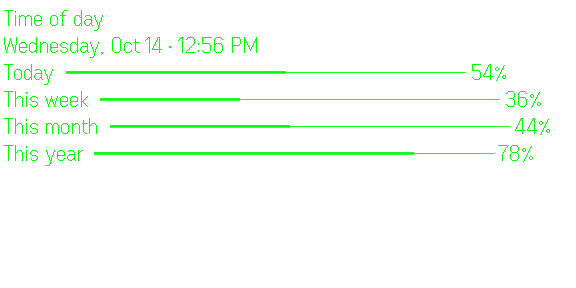
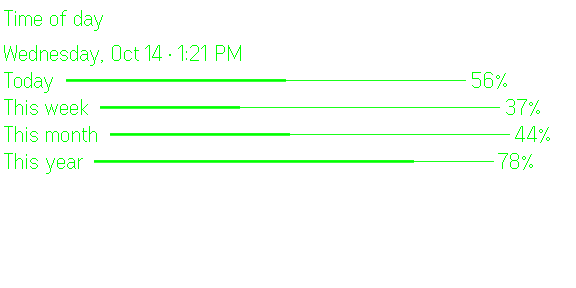
Smooth scrolling, clearer import panel, tolerant startup; 0.1.3
- Output scrolls smoothly: a fixed header line, and the output in a text
  box the glasses scroll themselves (no redraw per swipe; the old way
  rebuilt the whole screen 6 lines further on each swipe). A box holds
  about 1000 characters (the simulator refused a 1390-character update),
  so longer output is split into parts: the next part opens at the end of
  one (if the glasses report it) or from the menu (Next part / Previous
  part). Simulator: "part 1 of 4", firmware scroll with a scrollbar, menu
  switches parts, a short output answers a swipe with "end".
- Import from computer opens a titled, bordered panel with Close, scrolled
  into view; a script shows "Imported ✓" (the list used to look like the
  script list).
- store.load: a slow storage call no longer stops startup (no blank
  glasses).
- Store screenshots re-captured for the new output screen.

diff --git a/glasses/src/glasses.ts b/glasses/src/glasses.ts
@@ -1,8 +1,9 @@
 // What the glasses show, and what each gesture does there.
 //   Script list (root):  swipe = move (firmware), tap = run, double-tap = Even's exit dialog
-//   Output:              swipe = scroll, tap = run again, double-tap = back to the list (and stop it if still running)
+//   Output:              swipe = scroll (the glasses scroll the text themselves), tap = run again,
+//                        double-tap = back to the list (and stop it if still running)
 //   Choice (Alert/UITable): tap = pick, double-tap = cancel
-//   System menu (tap then hold): "All scripts" + favourite scripts
+//   System menu (tap then hold): "All scripts", "Next part"/"Previous part" for long output, favourite scripts
 import {
   CreateStartUpPageContainer, ListContainerProperty, ListItemContainerProperty, MenuContainerProperty, MenuItemProperty,
   OsEventTypeList, RebuildPageContainer, TextContainerProperty, TextContainerUpgrade, type EvenHubEvent,
@@ -19,11 +20,15 @@ const PAD = 4
 const INNER = W - 2 * PAD
 const LINE_PX = 27 // fixed line height of the firmware font (Even's pretext docs)
 const ITEM_PX = 40 // fixed list item height (same docs); a list shorter than its box is drawn centred in it
-const LINES = 9 // lines per screen: 9 × 27 = 243 px of the 280 px inside the padding
-const STEP = 6 // a swipe scrolls this many lines
+const HEAD_H = LINE_PX + 2 * PAD // the fixed title line above a script's output
+// A text box the glasses scroll themselves holds about 1000 characters (rebuild limit; the simulator refused
+// a 1390-character update), so longer output is split into parts of up to PART_CHARS.
+const PART_CHARS = 950
 const LIST_MAX = 20 // firmware limit on list items
 const PER_PAGE = 18 // when a list is longer, 18 items + "Previous page"/"Next page"
 const MENU_ALL = 1
+const MENU_NEXT = 2
+const MENU_PREV = 3
 const MENU_FAV = 100
 
 /** Splits text into display lines at word boundaries, measured with the firmware font. */
@@ -60,11 +65,12 @@ type View =
   | { kind: 'list'; page: number }
   | { kind: 'message'; text: string }
   | { kind: 'busy'; title: string; since: number; note?: string }
-  | { kind: 'output'; title: string; lines: string[]; top: number; scriptId: string; running?: boolean; note?: string }
+  | { kind: 'output'; title: string; parts: string[]; part: number; scriptId: string; running?: boolean; note?: string }
   | { kind: 'choice'; choice: Choice; page: number; resolve: (i: number) => void }
 
 let view: View = { kind: 'message', text: '' }
-let layout: 'text' | 'list' | null = null
+let layout: 'text' | 'list' | 'output' | null = null
+let shownBody = '' // the output body on the glasses, so a header-only change keeps the scroll position
 let started = false
 let run: RunHandle | null = null
 let runSeq = 0 // which run the glasses belong to; a stopped or replaced run is ignored
@@ -76,14 +82,31 @@ let liveLast = 0
 export const events = { onResult: (_name: string, _r: RunResult) => {}, onLog: (_level: string, _text: string) => {} }
 
 function menu(): MenuContainerProperty {
-  const favs = store.scripts.filter(s => s.fav).slice(0, 9)
+  const parts = view.kind === 'output' && view.parts.length > 1
+  const favs = store.scripts.filter(s => s.fav).slice(0, parts ? 7 : 9) // the firmware allows 10 items
   menuFavIds = favs.map(s => s.id)
   return new MenuContainerProperty({
     menuItems: [
       new MenuItemProperty({ itemID: MENU_ALL, itemName: 'All scripts' }),
+      ...(parts ? [new MenuItemProperty({ itemID: MENU_NEXT, itemName: 'Next part' }), new MenuItemProperty({ itemID: MENU_PREV, itemName: 'Previous part' })] : []),
       ...favs.map((s, i) => new MenuItemProperty({ itemID: MENU_FAV + i, itemName: fitBytes(s.name, 32) })),
     ],
   })
+}
+
+/** Display lines grouped into parts that each fit one text box the glasses can scroll. */
+function toParts(text: string): string[] {
+  const parts: string[] = []
+  let cur = ''
+  for (const line of wrap(text || ' ')) {
+    if (cur && cur.length + 1 + line.length > PART_CHARS) {
+      parts.push(cur)
+      cur = ''
+    }
+    cur = cur ? `${cur}\n${line}` : line.slice(0, PART_CHARS)
+  }
+  parts.push(cur)
+  return parts
 }
 
 async function page(textObject: TextContainerProperty[], list?: ListContainerProperty) {
@@ -110,6 +133,31 @@ async function showText(content: string) {
     containerID: 1, containerName: 'main', content, isEventCapture: 1,
   })])
   layout = 'text'
+}
+
+const upgrade = (containerID: number, containerName: string, content: string) =>
+  call(b => b.textContainerUpgrade(new TextContainerUpgrade({ containerID, containerName, contentOffset: 0, contentLength: 0, content })))
+
+/** A fixed header line, and the output below it in a text box the glasses scroll themselves (no redraw per swipe). */
+async function showOutput(header: string, body: string) {
+  if (layout === 'output') {
+    await upgrade(2, 'head', header)
+    if (body !== shownBody) await upgrade(1, 'main', body) // new text starts at the top again
+    shownBody = body
+    return
+  }
+  await page([
+    new TextContainerProperty({
+      xPosition: 0, yPosition: 0, width: W, height: HEAD_H, borderWidth: 0, borderColor: 0, paddingLength: PAD,
+      containerID: 2, containerName: 'head', content: header, isEventCapture: 0,
+    }),
+    new TextContainerProperty({
+      xPosition: 0, yPosition: HEAD_H, width: W, height: H - HEAD_H, borderWidth: 0, borderColor: 0, paddingLength: PAD,
+      containerID: 1, containerName: 'main', content: body, isEventCapture: 1,
+    }),
+  ])
+  layout = 'output'
+  shownBody = body
 }
 
 async function showList(title: string, labels: string[]) {
@@ -140,11 +188,10 @@ function paged(all: string[], pageNo: number) {
   return { labels, at }
 }
 
-function outputText(v: Extract<View, { kind: 'output' }>): string {
-  const body = v.lines.slice(v.top, v.top + LINES - 1)
-  const pos = (v.lines.length > LINES - 1 ? `  ${v.top + 1}-${v.top + body.length} of ${v.lines.length}` : '')
+function outputHeader(v: Extract<View, { kind: 'output' }>): string {
+  const suffix = (v.parts.length > 1 ? `  part ${v.part + 1} of ${v.parts.length}` : '')
     + (v.running ? ' · running' : '') + (v.note ? ` · ${v.note}` : '')
-  return [pxTruncate(v.title, INNER - getTextWidth(pos)) + pos, ...body].join('\n')
+  return pxTruncate(v.title, INNER - getTextWidth(suffix)) + suffix
 }
 
 async function render() {
@@ -153,7 +200,7 @@ async function render() {
   else if (v.kind === 'choice') {
     const title = [v.choice.title, v.choice.message].filter(Boolean).join(' - ')
     await showList(title, paged(v.choice.options, v.page).labels)
-  } else if (v.kind === 'output') await showText(outputText(v))
+  } else if (v.kind === 'output') await showOutput(outputHeader(v), v.parts[v.part])
   else if (v.kind === 'busy') await showText(`${v.title}\n\nRunning...${v.note ? `\n${v.note}` : ''}`)
   else await showText(v.text)
 }
@@ -182,9 +229,9 @@ function stopRun() {
 
 /** Output a script shows while it is still running; redrawn at most once a second, the latest wins. */
 function live(title: string, scriptId: string, output: RunResult['output']) {
-  const top = view.kind === 'output' && view.scriptId === scriptId ? view.top : 0
-  const lines = wrap(output.text || ' ')
-  view = { kind: 'output', title, lines, top: Math.min(top, Math.max(0, lines.length - (LINES - 1))), scriptId, running: true }
+  const part = view.kind === 'output' && view.scriptId === scriptId ? view.part : 0
+  const parts = toParts(output.text)
+  view = { kind: 'output', title, parts, part: Math.min(part, parts.length - 1), scriptId, running: true }
   clearTimeout(liveTimer)
   liveTimer = setTimeout(() => { liveLast = Date.now(); void render() }, Math.max(0, 1000 - (Date.now() - liveLast)))
 }
@@ -212,7 +259,7 @@ export async function runOnGlasses(id: string, mode: 'app' | 'widget' = 'app') {
   clearTimeout(liveTimer)
   events.onResult(meta.name, r)
   const text = r.error ? `Error: ${r.error}${r.output.text ? `\n\n${r.output.text}` : ''}` : r.output.text || 'Done (no output).'
-  view = { kind: 'output', title: meta.name, lines: wrap(text), top: 0, scriptId: id }
+  view = { kind: 'output', title: meta.name, parts: toParts(text), part: 0, scriptId: id }
   await render()
 }
 
@@ -246,13 +293,17 @@ async function pick(i: number) {
 }
 
 // Every gesture gets a visible answer (Even's review rule), even where there is nothing to do.
-async function scroll(delta: number) {
+// While the output overflows its box the glasses scroll it themselves and send no event; a swipe event
+// means the box is at its top or end, so it moves to the previous or next part, or says "top"/"end".
+async function scroll(dir: 1 | -1) {
   const v = view
   if (v.kind === 'busy' || v.kind === 'message') return nudge()
   if (v.kind !== 'output') return
-  const top = Math.max(0, Math.min(v.top + delta, v.lines.length - (LINES - 1)))
-  v.note = top === v.top ? (delta < 0 ? 'top' : 'end') : undefined
-  v.top = top
+  const part = v.part + dir
+  if (part >= 0 && part < v.parts.length) {
+    v.part = part
+    v.note = undefined
+  } else v.note = dir < 0 ? 'top' : 'end'
   await render()
 }
 
@@ -278,6 +329,8 @@ async function onEvent(e: EvenHubEvent) {
       stopRun()
       return showRoot()
     }
+    if (id === MENU_NEXT) return scroll(1)
+    if (id === MENU_PREV) return scroll(-1)
     const fav = menuFavIds[id - MENU_FAV]
     if (fav) return runOnGlasses(fav)
     return
@@ -289,8 +342,8 @@ async function onEvent(e: EvenHubEvent) {
     if ((e.listEvent.eventType ?? OsEventTypeList.CLICK_EVENT) === OsEventTypeList.CLICK_EVENT) return pick(e.listEvent.currentSelectItemIndex ?? 0)
     return
   }
-  if (text === OsEventTypeList.SCROLL_TOP_EVENT) return scroll(-STEP)
-  if (text === OsEventTypeList.SCROLL_BOTTOM_EVENT) return scroll(STEP)
+  if (text === OsEventTypeList.SCROLL_TOP_EVENT) return scroll(-1)
+  if (text === OsEventTypeList.SCROLL_BOTTOM_EVENT) return scroll(1)
   if (sys === OsEventTypeList.CLICK_EVENT || text === OsEventTypeList.CLICK_EVENT) return tap()
   if (sys === OsEventTypeList.SYSTEM_EXIT_EVENT || sys === OsEventTypeList.ABNORMAL_EXIT_EVENT) stopRun()
   // Foreground enter/exit (also fired by opening/closing the menu) and long presses: nothing to do.

diff --git a/glasses/src/phone.ts b/glasses/src/phone.ts
@@ -17,7 +17,11 @@ const PAGE = `
 <header><h1>EvenScriptable</h1><p class="dim">Your JavaScript, on your glasses.</p></header>
 <section>
   <div class="row"><input id="search" type="search" placeholder="Search scripts"><button id="new" class="accent">New script</button><button id="import">Import from computer</button></div>
-  <ul id="imports" class="list" hidden></ul>
+  <div id="import-panel" class="panel" hidden>
+    <div class="row spread"><h2>Import from your computer</h2><button id="import-close">Close</button></div>
+    <p class="dim">The .js files in the folder your bridge shares (~/Scripts unless you changed it).</p>
+    <ul id="imports" class="list"></ul>
+  </div>
   <ul id="scripts" class="list"></ul>
 </section>
 <section id="editor" hidden>
@@ -89,7 +93,8 @@ async function saveEditor() {
 
 async function showImports() {
   const box = $('#imports')
-  box.hidden = false
+  $('#import-panel').hidden = false
+  $('#import-panel').scrollIntoView({ behavior: 'smooth', block: 'start' })
   box.replaceChildren(el('li', { className: 'dim', textContent: 'Asking your computer…' }))
   try {
     const names = await bridgeScripts()
@@ -98,12 +103,14 @@ async function showImports() {
       el('span', { className: 'actions' }, el('button', {
         textContent: store.scripts.some(s => s.name === name) ? 'Import again (replace)' : 'Import',
         className: 'accent',
-        onclick: async () => {
+        onclick: async (e: MouseEvent) => {
+          const btn = e.currentTarget as HTMLButtonElement
+          btn.textContent = 'Importing…'
           const old = store.scripts.find(s => s.name === name)
           await store.saveScript(old ?? { id: uuid(), name, fav: false }, await bridgeScript(name))
+          btn.textContent = 'Imported ✓'
           renderScripts()
           await refresh()
-          void showImports()
         },
       }))))
     box.replaceChildren(...(rows.length ? rows : [el('li', { className: 'dim', textContent: 'The scripts folder on your computer has no .js files (or none is set).' })]))
@@ -136,6 +143,7 @@ export function mountPhone(root: HTMLElement) {
   $('#search').oninput = renderScripts
   $('#new').onclick = () => void openEditor(null)
   $('#import').onclick = () => void showImports()
+  $('#import-close').onclick = () => { $('#import-panel').hidden = true }
   $('#ed-save').onclick = () => void saveEditor()
   $('#ed-cancel').onclick = () => { $('#editor').hidden = true }
   $('#key-add').onclick = async () => {

diff --git a/glasses/src/store.ts b/glasses/src/store.ts
@@ -59,13 +59,17 @@ export const store = {
 
   async load() {
     this.scripts = await getJSON('index', [])
-    this.startId = await getRaw('start')
+    this.startId = await getRaw('start').catch(() => '') // a slow storage call must not leave the glasses blank
     this.keychain = await getJSON('keychain', {})
     this.files = await getJSON('files', {})
     this.bridge = await getJSON('bridge', null)
-    if (!(await getRaw('seeded'))) { // first launch only: the one example that comes with the app
-      await this.saveScript({ id: uuid(), name: 'Time of day', fav: false }, TIME_OF_DAY)
-      await setRaw('seeded', '1')
+    try {
+      if (!(await getRaw('seeded'))) { // first launch only: the one example that comes with the app
+        await this.saveScript({ id: uuid(), name: 'Time of day', fav: false }, TIME_OF_DAY)
+        await setRaw('seeded', '1')
+      }
+    } catch {
+      // storage too slow right now: the example is added on a later launch
     }
   },
 

diff --git a/glasses/index.html b/glasses/index.html
@@ -39,6 +39,9 @@
         padding: 10px 14px; border: 0; border-radius: 12px; background: var(--surface); color: var(--text); font: inherit; font-size: 14px;
       }
       button.accent { background: var(--accent); color: var(--on-accent); }
+      .panel { border: 2px solid var(--accent); border-radius: 12px; padding: 12px; margin: 8px 0; }
+      .panel h2 { margin: 0; }
+      .row.spread { justify-content: space-between; align-items: center; }
       .list { list-style: none; padding: 0; margin: 0; }
       .list li { background: var(--surface); border-radius: 12px; padding: 12px 16px; margin: 8px 0; }
       .list .name { display: block; font-weight: 500; overflow-wrap: anywhere; }

diff --git a/glasses/src/selftest.ts b/glasses/src/selftest.ts
@@ -88,6 +88,7 @@ export async function mountSelftest() {
     await addTests()
     renderScripts()
   }
+  if (q.has('openimport')) document.getElementById('import')?.click() // simulator only: show the import panel
   if (q.has('importall') && store.bridge) { // load every script in the bridge's folder (the QR adds ?importall)
     for (const name of await bridgeScripts()) {
       const old = store.scripts.find(s => s.name === name)
